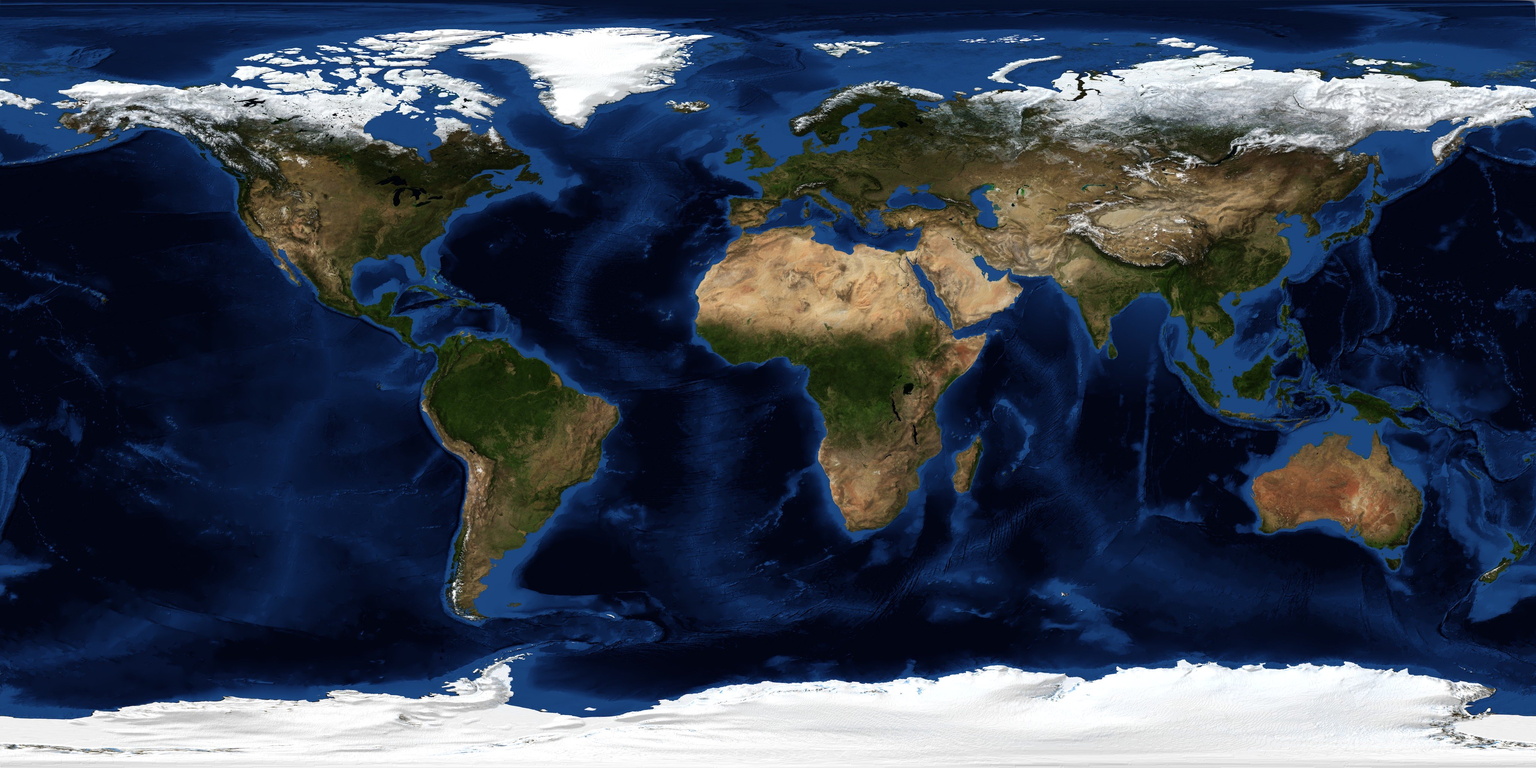
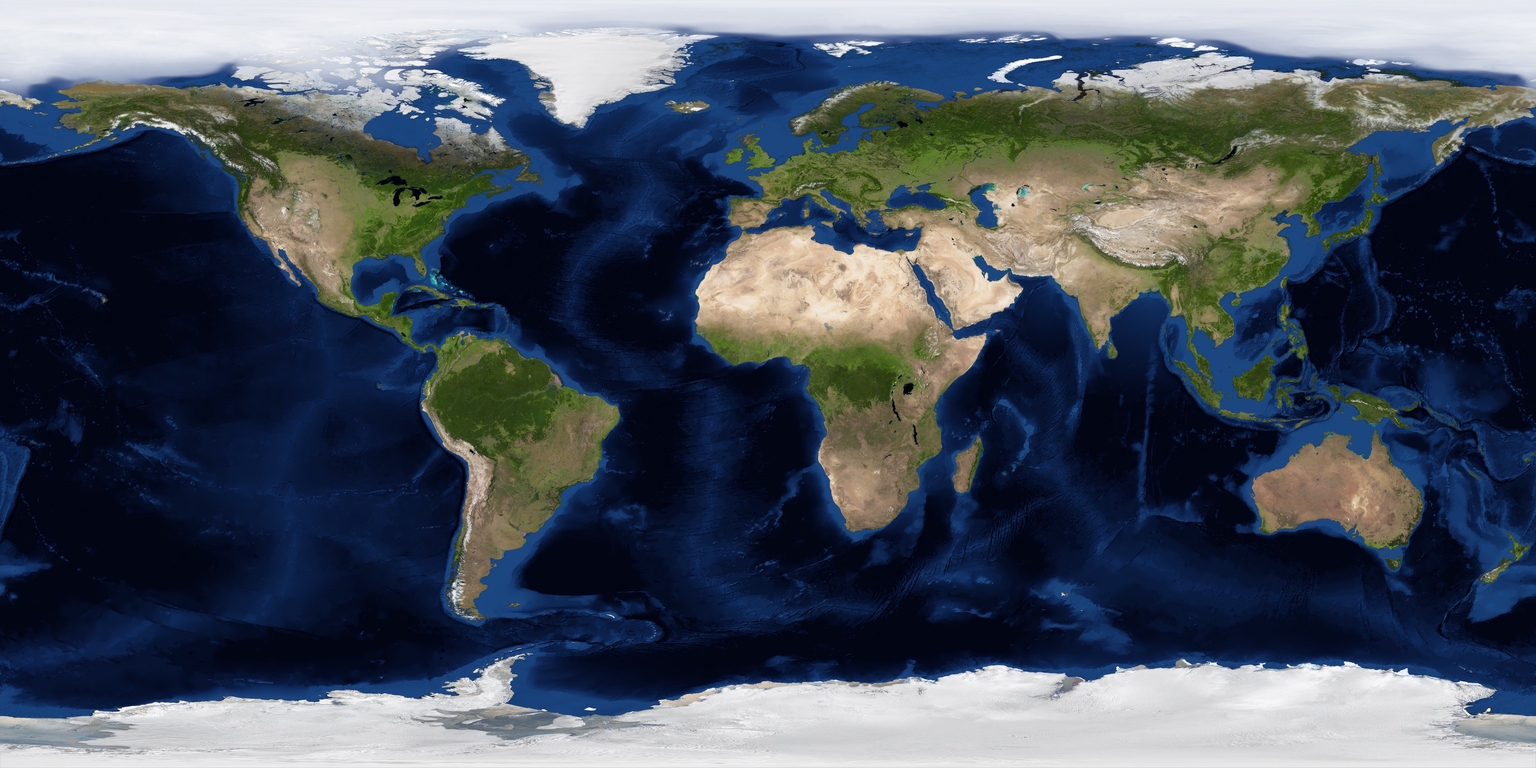
GeoPolit: 8K tiled satellite background with bathymetry
Claude-Session: https://claude.ai/code/session_01CWDGfJ6Tr7a2tYama4KdYf

diff --git a/geo/src/main/assets/index.html b/geo/src/main/assets/index.html
@@ -76,6 +76,7 @@ let BB,AREA,LP,LW,CEN; // region metadata (from best LOD)
 let T=d3.zoomIdentity,zoomB,sceneT=null,sceneOK=false,bdOK=false,interacting=false;
 const S0=()=>H/MH;
 const BGI=new Image();let BGOK=false;BGI.onload=()=>{BGOK=true;invalidate()};BGI.src='bg.jpg';
+const TIL={};function tile(tx,ty){const k=tx+'_'+ty;let t=TIL[k];if(!t){t=TIL[k]=new Image();t.onload=()=>{t.ok=1;sceneOK=false;draw()};t.src='bg/'+k+'.jpg'}return t.ok?t:null}
 
 const COL={aq:'#e6edf3',ru:'#1d3b8f',cn:'#d0201f',us:'#4a7fd4',gb:'#b8324f',fr:'#2c6bd1',de:'#5b5b5b',it:'#2f9a4c',es:'#e2b928',pt:'#1f7a3a',
 jp:'#efe6d8',kr:'#6b8fd6',kp:'#8a2a2a',in:'#f08a2b',pk:'#2a6b3e',bd:'#1e8a5a',ir:'#3d9a5c',iq:'#8c6a3c',sa:'#1b6e3a',tr:'#c84343',
@@ -164,7 +165,8 @@ function paint(c,K,X,Y,w,h,L,regBorders,ps=1){
   const ww=MW*K,vy0=-Y/K,vy1=(h-Y)/K,own=G?G.owner:RK,P=G?G.player:-1;
   for(let cpy=0;X+cpy*ww<w;cpy++){const ox=X+cpy*ww;if(ox+ww<0)continue;
     c.setTransform(K*ps,0,0,K*ps,ox*ps,Y*ps);const vx0=-ox/K,vx1=(w-ox)/K;
-    if(BGOK)c.drawImage(BGI,0,0,MW,MH);c.globalAlpha=.75;
+    if(BGOK)c.drawImage(BGI,0,0,MW,MH);
+    if(regBorders&&K*MW*(ps||1)>4096*1.1){for(let ty=0;ty<2;ty++)for(let tx=0;tx<4;tx++){const x0=tx*MW/4,y0=ty*MH/2;if(x0+MW/4<vx0||x0>vx1||y0+MH/2<vy0||y0>vy1)continue;const t=tile(tx,ty);if(t)c.drawImage(t,x0,y0,MW/4+.3,MH/2+.3)}}c.globalAlpha=.75;
     for(let r=0;r<RK.length;r++){if(BB[4*r+2]<vx0||BB[4*r]>vx1||BB[4*r+3]<vy0||BB[4*r+1]>vy1)continue;const col=natColor(own[r]);c.fillStyle=col;c.fill(L.paths[r]);}c.globalAlpha=1;
     const pr=new Path2D(),pn=new Path2D(),pp=new Path2D(),pw=new Path2D();let hasP=false,hasW=false;
     const ab=L.abb,war=G?G.war:[];
